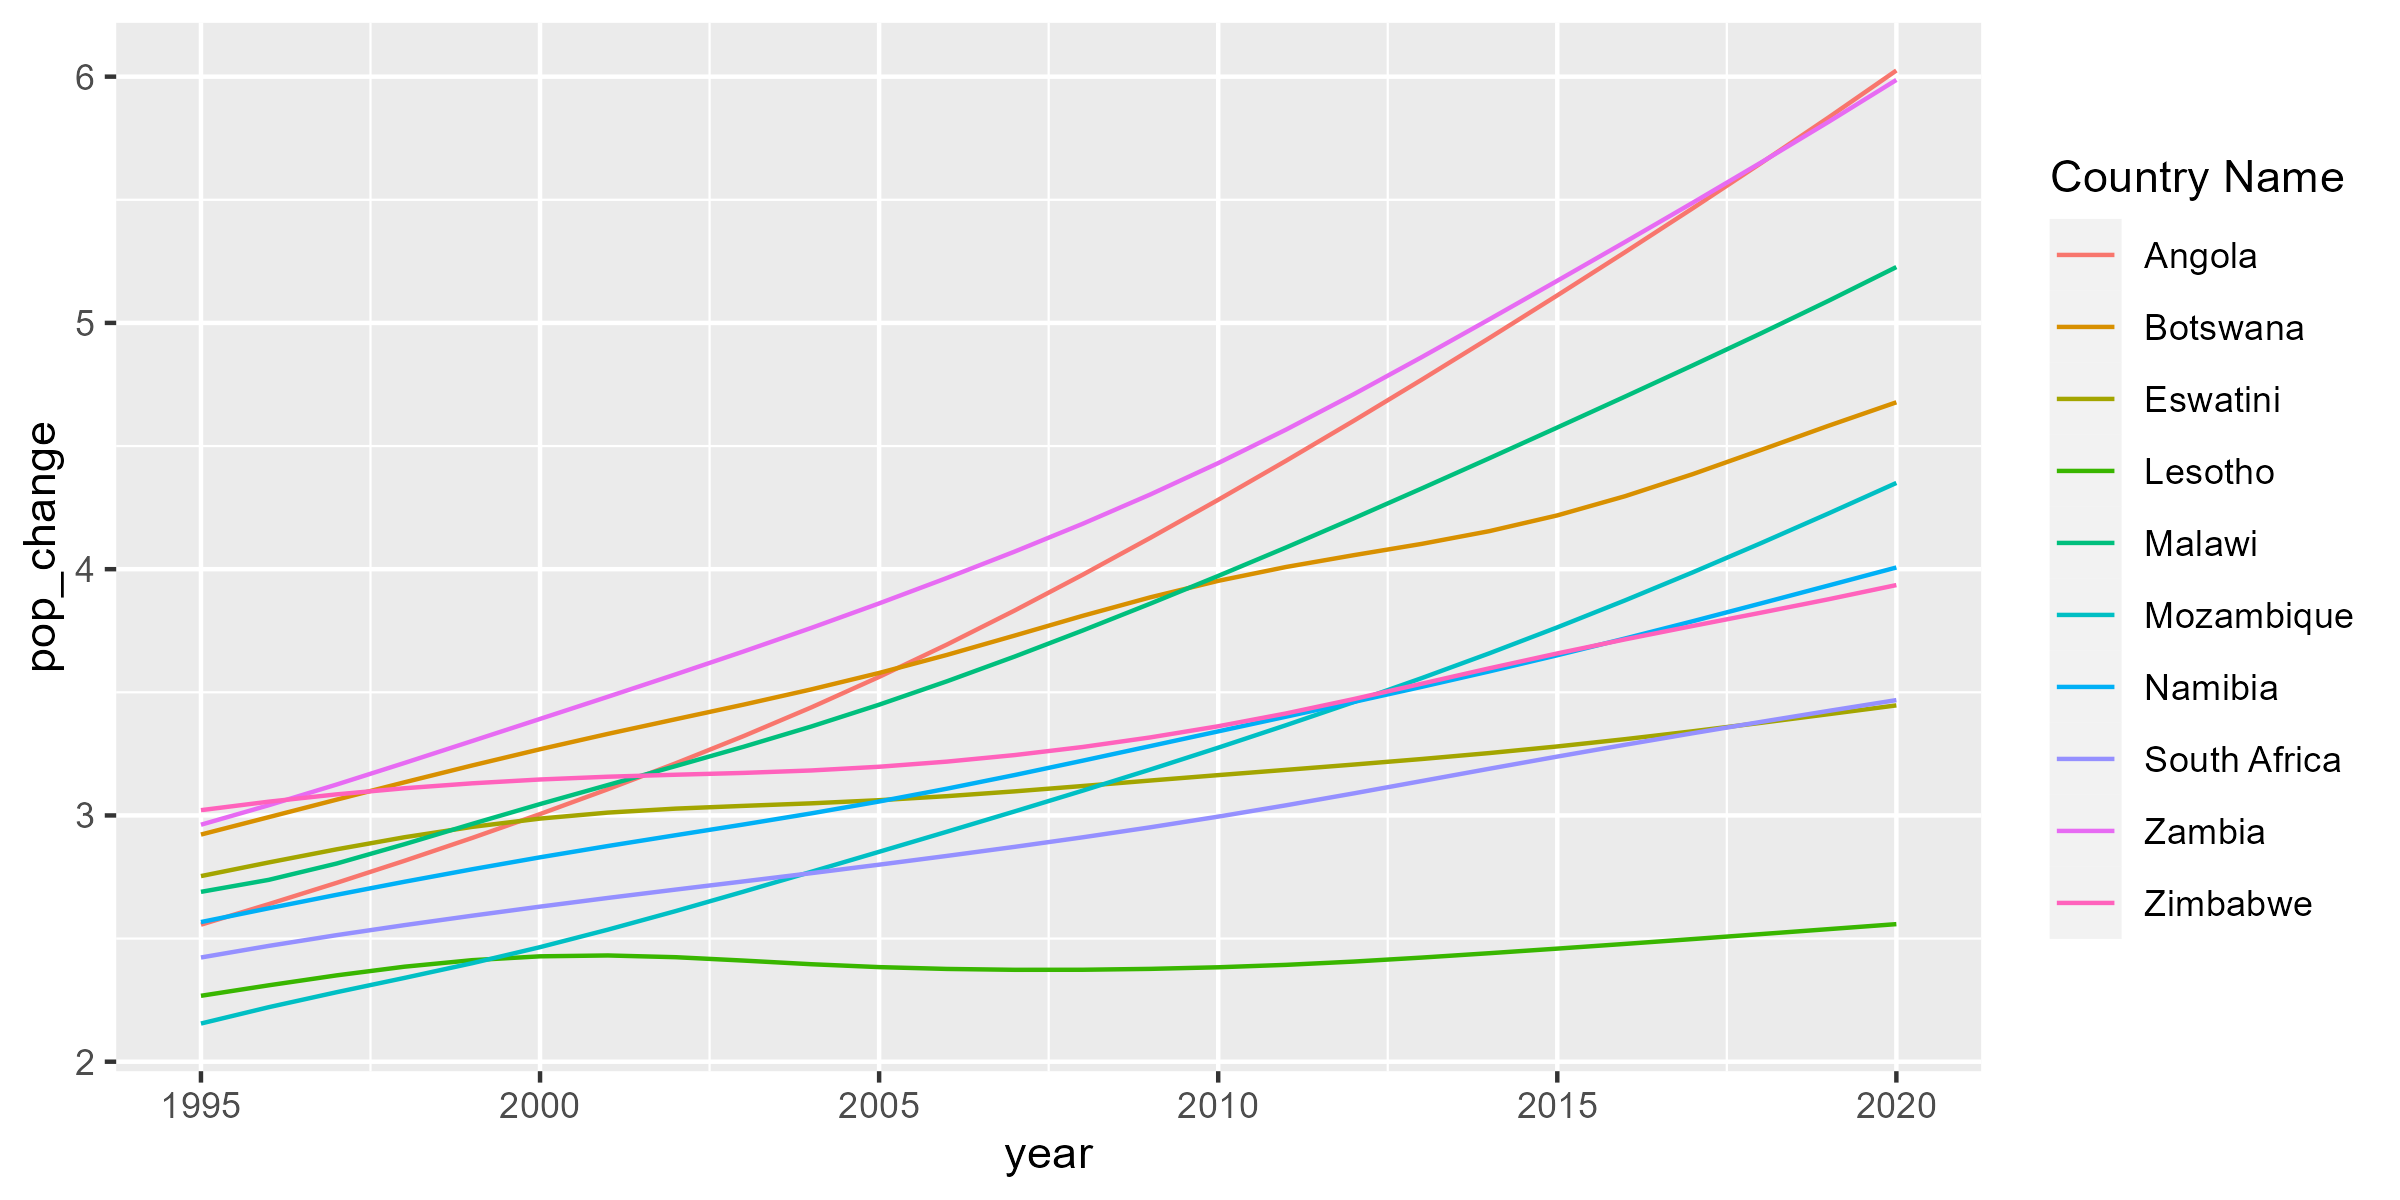
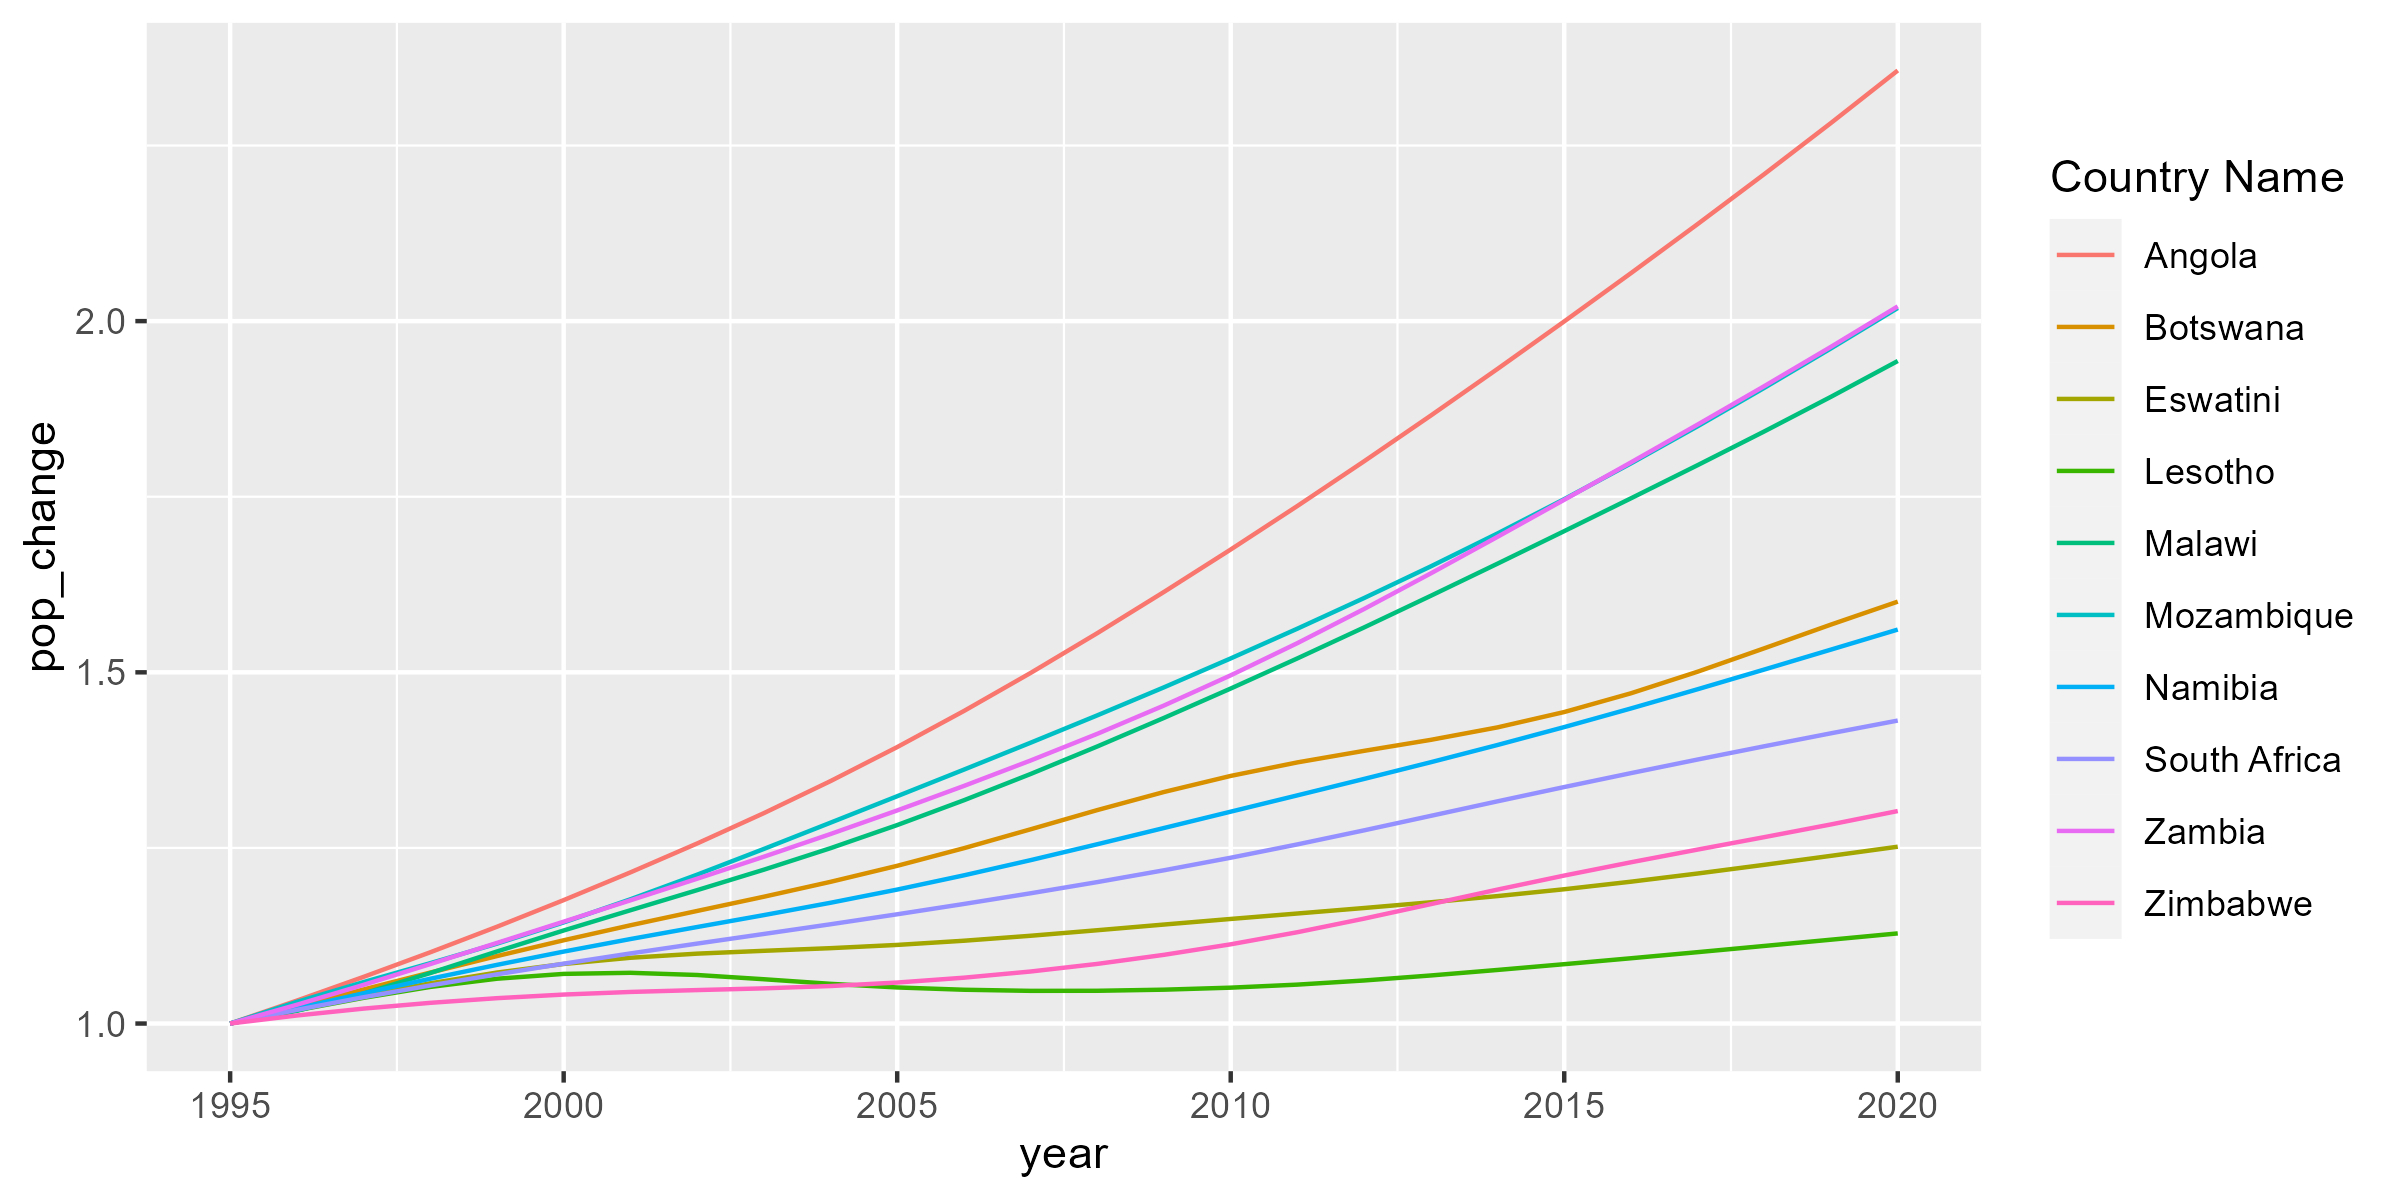
Update

diff --git a/README.md b/README.md
@@ -2,6 +2,16 @@
 
 Some population metrics figures for Southern African countries (Angola, Botswana, Eswatini, Lesotho, Malawi, Mozambique, Namibia, South Africa, Zambia & Zimbabwe). Produced from data published at the World Bank Open Data website (https://data.worldbank.org/).
 
+![alt text for screen readers](/figures/plot_sa_pop.png "Population growth")
+
 ![alt text for screen readers](/figures/plot_sa_pop_change.png "Population growth per people living in 1960")
 
 ![alt text for screen readers](/figures/plot_sa_births.png "Fertility rate evolution (births per woman)")
+
+## Plots for Mozambique
+
+![alt text for screen readers](/figures/plot_moz_pop.png "Population growth")
+
+![alt text for screen readers](/figures/plot_moz_births_w.png "Fertility rate evolution (births per woman)")
+
+![alt text for screen readers](/figures/plot_moz_births.png "Births evolution")
